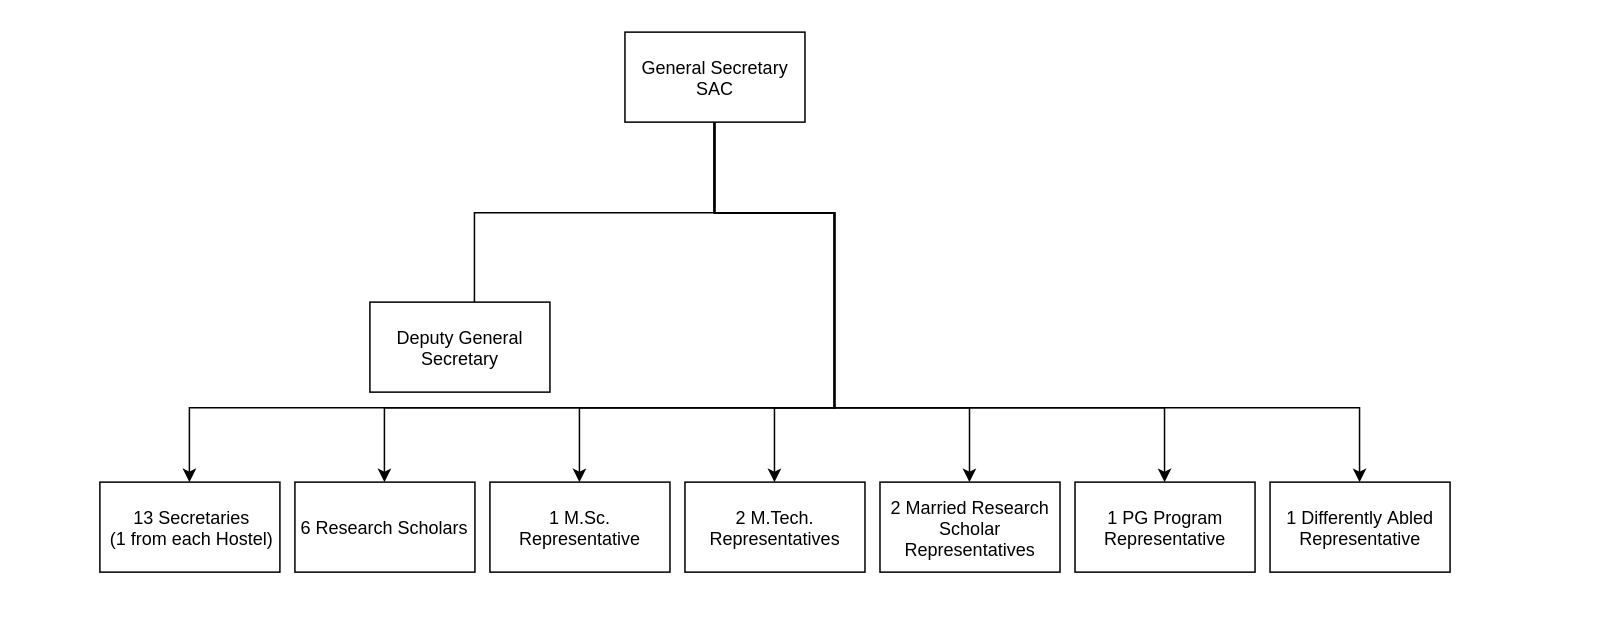
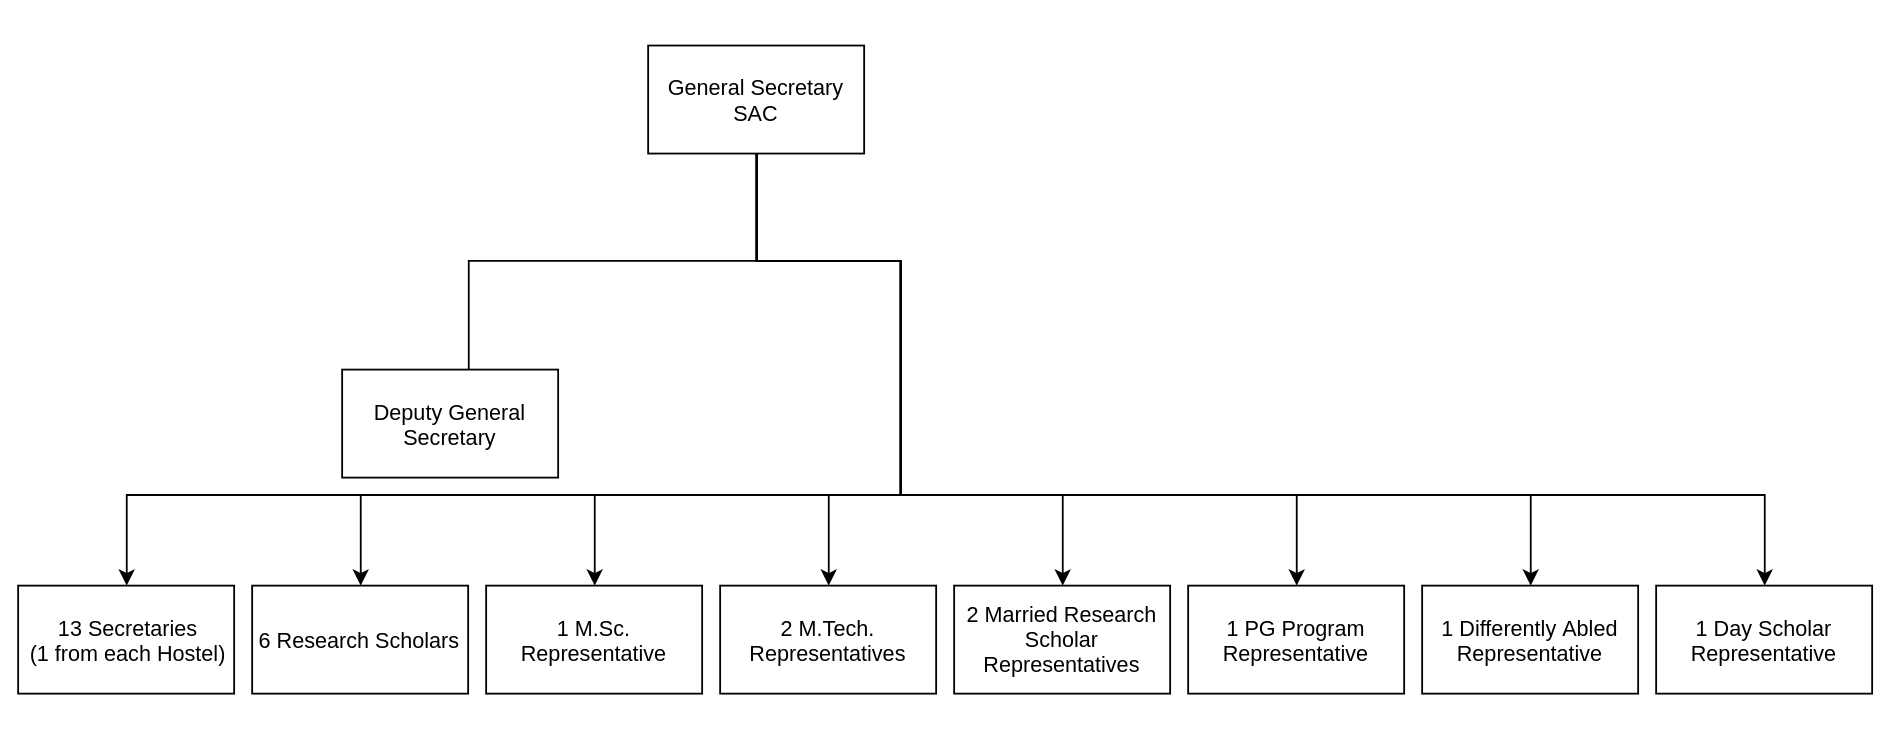
structure added

diff --git a/boards/partials/bhm.html b/boards/partials/bhm.html
@@ -31,49 +31,7 @@
             <div data-tab="str" class="tabcontent">
                 <h2>Structure & Responsibilities</h2>
                 <div id="wrapper-flow">
-                    <div id="container-flow">
-                        <ol class="organizational-chart">
-                            <li>
-                                <div>
-                                    <p>General Secretary</p>
-                                </div>
-                                <ol>
-                                  <li>
-                                    <div>
-                                      <p>
-                                        Mess Secretary
-                                      </p>
-                                    </div>
-                                    <ol>
-                                      <li>
-                                        <div>
-                                          <p>
-                                            BHM Representative
-                                          </p>
-                                        </div>
-                                      </li>
-                                    </ol>
-                                  </li>
-                                  <li>
-                                    <div>
-                                      <p>
-                                        Maintenance Secretary
-                                      </p>
-                                    </div>
-                                    <ol>
-                                      <li>
-                                        <div>
-                                          <p>
-                                            BHM Representative
-                                          </p>
-                                        </div>
-                                      </li>
-                                    </ol>
-                                  </li>
-                                </ol>
-                            </li>
-                        </ol>
-                    </div>
+										<img src="../docs/str/BHM.png" style="width:100%;height: auto;" />
                 </div>
               </div>
               <div class="tabcontent">&nbsp</div> <!-- !important - to clear the spaces -->

diff --git a/boards/partials/bsa.html b/boards/partials/bsa.html
@@ -30,60 +30,7 @@
       </div>
       <div data-tab="str" class="tabcontent">
           <h2>Structure & Responsibilities</h2>
-          <div id="wrapper-flow">
-              <div id="container-flow">
-                  <ol class="organizational-chart">
-                      <li>
-                          <div>
-                              <p>General Secretary</p>
-                          </div>
-                          <ol>
-                            <li>
-                              <div>
-                                <p>
-                                  Deputy General Secretary
-                                </p>
-                              </div>
-                              <ol>
-                                <li>
-                                  <div>
-                                    <p>
-                                      Institute Team Captains
-                                    </p>
-                                  </div>
-																</li>
-																<li>
-																	<div>
-																		<p>
-																			Sports Secretary(Hostel)
-																		</p>
-																	</div>
-																	<ol>
-																		<li>
-																			<div>
-																				<p>
-																					Hostel Captains(for each sport)
-																				</p>
-																			</div>
-																			<ol>
-																				<li>
-																					<div>
-																						<p>
-																							Hostel Vice Captains(for each sport)
-																						</p>
-																					</div>
-																				</li>
-																			</ol>
-																		</li>
-																	</ol>
-																</li>
-															</ol>
-                            </li>
-                          </ol>
-                      </li>
-                  </ol>
-              </div>
-          </div>
+					<img src="../docs/str/BSA.png" style="width:100%;height: auto;" />
         </div>
         <div class="tabcontent">&nbsp</div> <!-- !important - to clear the spaces -->
       <div data-tab="consti" class="tabcontent">

diff --git a/boards/partials/bsw.html b/boards/partials/bsw.html
@@ -35,67 +35,7 @@
       </div>
       <div data-tab="str" class="tabcontent">
 				<h2>Structure & Responsibilities</h2>
-				<div id="wrapper-flow">
-						<div id="container-flow">
-								<ol class="organizational-chart">
-										<li>
-												<div>
-														<p>General Secretary</p>
-												</div>
-												<ol>
-													<li>
-														<div>
-															<p>
-																Deputy General Secretary(Mentorship)
-															</p>
-														</div>
-														<ol>
-															<li>
-																<div>
-																	<p>
-																		Coordinators
-																	</p>
-																</div>
-																<ol>
-																	<li>
-																		<div>
-																			Mentors
-																		</div>
-																	</li>
-																</ol>
-															</li>
-														</ol>
-													</li>
-													<li>
-														<div>
-															<p>
-																Deputy General Secretary(Operations)
-															</p>
-														</div>
-														<ol>
-															<li>
-																<div>
-																	<p>
-																		Secretaries
-																	</p>
-																</div>
-																<ol>
-																	<li>
-																		<div>
-																			<p>
-																				Representatives
-																			</p>
-																		</div>
-																	</li>
-																</ol>
-															</li>
-														</ol>
-													</li>
-												</ol>
-										</li>
-								</ol>
-						</div>
-				</div>
+				<img src="../docs/str/BSW.png" style="width:100%;height: auto;" />
 			</div>
         <div class="tabcontent">&nbsp</div> <!-- !important - to clear the spaces -->
       <div data-tab="consti" class="tabcontent">

diff --git a/boards/partials/bsp.html b/boards/partials/bsp.html
@@ -35,42 +35,7 @@
       </div>
       <div data-tab="str" class="tabcontent">
           <h2>Structure & Responsibilities</h2>
-          <div id="wrapper-flow">
-              <div id="container-flow">
-                  <ol class="organizational-chart">
-                      <li>
-                          <div>
-                              <p>General Secretary</p>
-                          </div>
-                          <ol>
-                            <li>
-                              <div>
-                                <p>
-                                  Chief Editor
-                                </p>
-                              </div>
-                              <ol>
-                                <li>
-                                  <div>
-                                    <p>
-                                      Journalists
-                                    </p>
-                                  </div>
-																</li>
-																<li>
-																	<div>
-																		<p>
-																			Technical Editors
-																		</p>
-																	</div>
-																</li>
-                              </ol>
-                            </li>
-                          </ol>
-                      </li>
-                  </ol>
-              </div>
-          </div>
+					<img src="../docs/str/BSP.png" style="width:100%;height: auto;" />
         </div>
         <div class="tabcontent">&nbsp</div> <!-- !important - to clear the spaces -->
       <div data-tab="consti" class="tabcontent">

diff --git a/sac/index.html b/sac/index.html
@@ -92,7 +92,7 @@
                       <div data-tab="str" class="tabcontent">
                           <h2>Structure & Responsibilities</h2>
                           <div id="wrapper-flow">
-                                <div id="container-flow">
+                                <!-- <div id="container-flow">
                                     <ol class="organizational-chart">
                                         <li>
                                             <div>General Secretary</div>
@@ -127,7 +127,8 @@
                                             </ol>
                                         </li>
                                     </ol>
-                                </div>
+																</div> -->
+																<img src="../docs/str/SAC.png" style="width:100%;height: auto;"/>
                             </div>
                         </div>
                         <div class="tabcontent">&nbsp</div> <!-- !important - to clear the spaces -->

diff --git a/boards/partials/brca.html b/boards/partials/brca.html
@@ -35,17 +35,7 @@
             </div>
             <div data-tab="str" class="tabcontent">
                 <h2>Structure & Responsibilities</h2>
-                <div id="wrapper-flow">
-                    <div id="container-flow">
-                        <ol class="organizational-chart">
-                            <li>
-                                <div>
-                                    <p>G.Secy</p>
-                                </div>
-                            </li>
-                        </ol>
-                    </div>
-                </div>
+								<img src="../docs/str/BRCA.png" style="width:100%;height: auto;" />
               </div>
               <div class="tabcontent">&nbsp</div> <!-- !important - to clear the spaces -->
             <div data-tab="consti" class="tabcontent">
